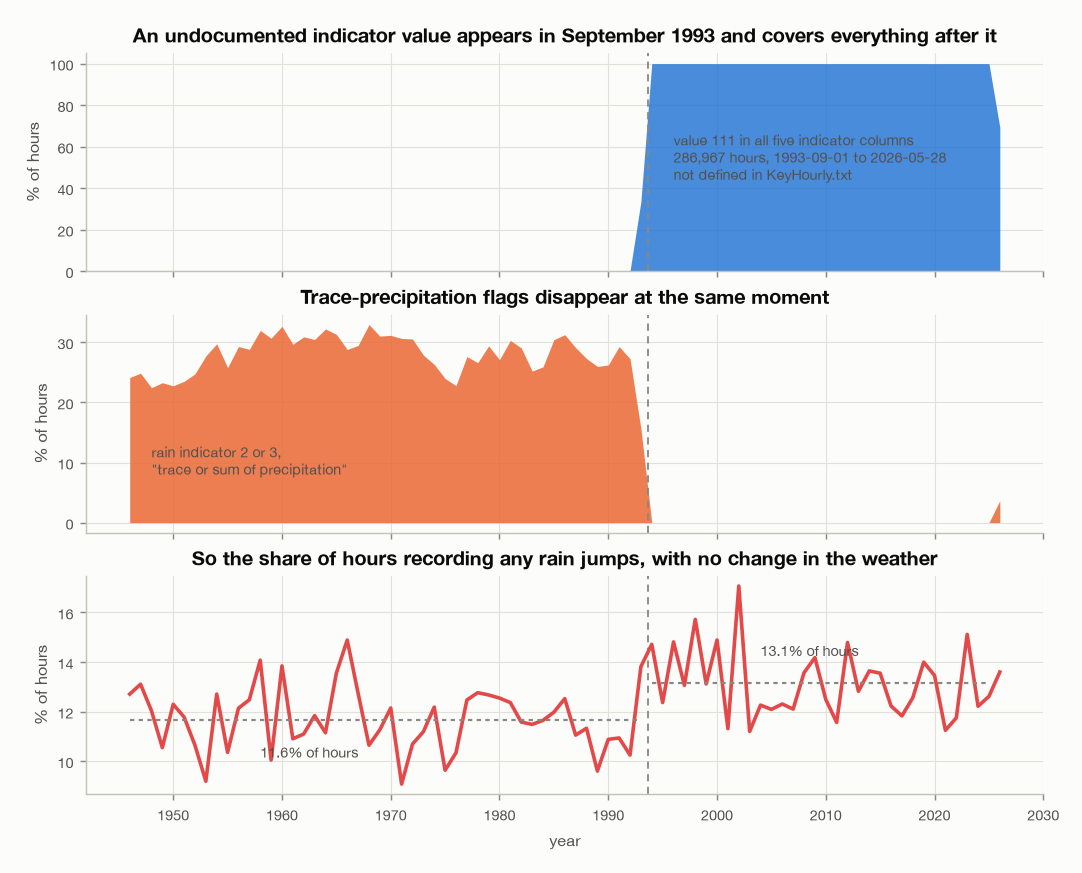
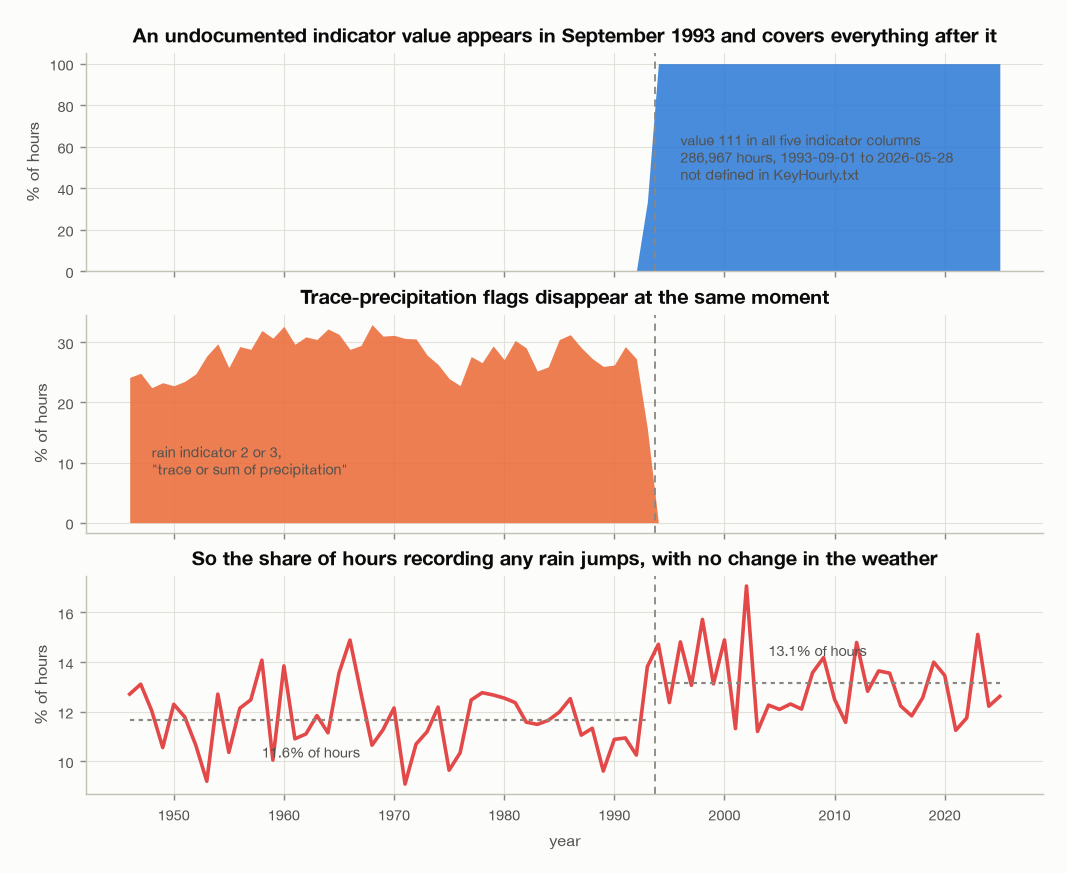
Document 01 published a wind direction the wind never blows from (20260912 22:27 UTC)
Statistical audit of eda_report.py, which generates documents 01 and 03.
Three real errors, each with a correct counterpart in the same file.

The mean wind direction was arithmetic. Averaging 350 and 10 degrees the
way you average temperatures puts the answer at 180, and across 693,896
readings it put the published mean at 205.9 degrees against a circular
mean of 235.6. Within a single month the gap reaches 60 degrees. The
strongest evidence it was wrong is two paragraphs below the table itself,
which names the prevailing southwesterly at 230 to 270 degrees - a range
the published figure sat outside and the corrected one sits inside.

table_univariate applied one linear summary to all thirteen variables.
table_climatology, three functions later in the same file, branches on
aggregate == "circular" and calls circular_mean_deg correctly;
table_break_register skips wddir because "a mean direction does not
subtract meaningfully"; table_correlation excludes it as meaningless. The
file knew. One function did not ask. Its standard deviation and skew are
now empty rather than filled with numbers that mean nothing: both measure
distance from a mean along a line, and a compass has no line.

The indicator-era figure plotted an unbounded index, so a 212-day 2026
became its last point. That year reverts to the documented codes partway
through, so the blue fill fell to 69% directly beneath a title reading
"covers everything after it", and the trace-flag fill ticked back up
[…]

diff --git a/EDA/scripts/eda_report.py b/EDA/scripts/eda_report.py
@@ -172,10 +172,20 @@ def table_continuity(raw: pd.DataFrame) -> pd.DataFrame:
 
 
 def table_univariate(clean_df: pd.DataFrame) -> pd.DataFrame:
-    """Distribution summary per variable, sentinels already removed."""
+    """Distribution summary per variable, sentinels already removed.
+
+    Wind direction is circular, so its mean is the circular one and its
+    standard deviation and skew are left empty: both describe distance from a
+    mean along a line, and there is no line. The arithmetic mean of this column
+    reads 205.9 degrees against a circular mean of 235.6, and the gap reaches
+    60 degrees within a single month, so it is not a rounding question.
+    """
+    from eda_common import circular_mean_deg
+
     rows = []
     for v in VARIABLES:
         s = clean_df[v.key].dropna()
+        circular = v.aggregate == "circular"
         rows.append({
             "variable": v.key,
             "unit": v.unit,
@@ -184,12 +194,13 @@ def table_univariate(clean_df: pd.DataFrame) -> pd.DataFrame:
             "p5": s.quantile(0.05),
             "p25": s.quantile(0.25),
             "median": s.median(),
-            "mean": s.mean(),
+            "mean": (circular_mean_deg(s.to_numpy(dtype=float))
+                     if circular else s.mean()),
             "p75": s.quantile(0.75),
             "p95": s.quantile(0.95),
             "max": s.max(),
-            "std": s.std(),
-            "skew": s.skew(),
+            "std": np.nan if circular else s.std(),
+            "skew": np.nan if circular else s.skew(),
         })
     return pd.DataFrame(rows).set_index("variable")
 
@@ -534,8 +545,19 @@ def table_climatology(clean_df: pd.DataFrame) -> tuple[pd.DataFrame, pd.DataFram
             if v.aggregate == "circular":
                 cols[v.key] = g.apply(lambda s: circular_mean_deg(s.to_numpy(dtype=float)))
             elif v.aggregate == "sum" and totals:
-                # total per calendar month per year, then averaged over years
+                # total per calendar month per year, then averaged over years.
+                # The completeness gate is the point: the record ends on
+                # 2026-08-01 00:00, so August 2026 holds one hour of 744 and was
+                # being averaged in as a whole dry, sunless August alongside
+                # eighty real ones. Same idea as daily()'s min_hours and
+                # annual()'s min_days, which this path never had.
                 per_month = frame.groupby(["year", by])[v.key].sum(min_count=1)
+                hours = frame.groupby(["year", by])[v.key].count()
+                expected = pd.Series(
+                    [pd.Period(year=y, month=m, freq="M").days_in_month * 24
+                     for y, m in per_month.index],
+                    index=per_month.index)
+                per_month = per_month.loc[hours >= 0.9 * expected]
                 cols[v.key] = per_month.groupby(level=1).mean()
             else:
                 cols[v.key] = g.mean()
@@ -639,6 +661,11 @@ def fig_indicator_era(era: pd.DataFrame, blocks: pd.DataFrame) -> None:
         ax.axvline(break_year, color=INK_MUTED, linewidth=1.0, linestyle=(0, (4, 3)))
 
     ax = axes[0]
+    # Complete years only, as fig_rain_total_unaffected does below. Plotting the
+    # raw index put a 212-day 2026 on the end, and that year reverts to the
+    # documented codes partway through, so the final point fell to 69% directly
+    # under a title saying the undocumented value covers everything after 1993.
+    era = era.loc[:LAST_COMPLETE_YEAR]
     ax.fill_between(era.index, era["undocumented 111 %"], color=SERIES[0], alpha=0.85,
                     linewidth=0)
     ax.set_ylabel("% of hours")
@@ -801,7 +828,12 @@ def fig_zero_sun(raw: pd.DataFrame, spells: pd.DataFrame) -> None:
     for ax, series, ylabel, title in panels:
         frame = series.to_frame("v")
         frame["year"] = frame.index.year
-        frame["doy"] = frame.index.dayofyear
+        # Leap-adjusted: .dayofyear puts 10 March at 70 in a leap year and 69
+        # otherwise, so pooling "all years" by it mixes adjacent calendar days
+        # for every day past February. 29 February folds onto 28, as elsewhere.
+        doy = np.asarray(frame.index.dayofyear)
+        leap = np.asarray(frame.index.is_leap_year)
+        frame["doy"] = np.where(leap & (doy >= 60), doy - 1, doy)
         window = frame[(frame["doy"] >= lo) & (frame["doy"] <= hi)]
         stats_by_doy = window.groupby("doy")["v"].agg(
             p05=lambda s: s.quantile(0.05),

diff --git a/EDA/01-data-review.md b/EDA/01-data-review.md
@@ -375,11 +375,20 @@ Sentinels removed. Hourly values, whole record.
 | `rhum` | % | 706,368 | 19 | 60 | 84 | 82.11 | 98 | 100 | 11.74 | -0.75 |
 | `msl` | hPa | 706,369 | 944.1 | 991.1 | 1014.8 | 1013.55 | 1031.7 | 1048.7 | 12.35 | -0.53 |
 | `wdsp` | knot | 706,369 | 0 | 2 | 9 | 10.11 | 20 | 46 | 5.67 | 0.70 |
-| `wddir` | ° | 693,896 | 10 | 50 | 230 | 205.9 | 320 | 360 | 84.50 | -0.51 |
+| `wddir` | ° | 693,896 | 10 | 50 | 230 | 235.6 | 320 | 360 | — | — |
 | `sun` | h | 706,369 | 0.0 | 0.0 | 0.0 | 0.168 | 1.0 | 1.0 | 0.33 | 1.75 |
 | `vis` | m | 706,114 | 5 | 4,000 | 25,000 | 25,688 | 50,000 | 75,000 | 15,177 | 0.64 |
 | `clht` | 100s ft | 518,928 | 0 | 5 | 35 | 56.87 | 200 | 440 | 60.89 | 1.73 |
 | `clamt` | okta | 706,344 | 0 | 1 | 7 | 5.58 | 8 | 8 | 2.54 | -0.90 |
+
+**`wddir` is the one row that is not a linear summary.** Its mean is the
+circular one, and its standard deviation and skew are left empty rather than
+filled with numbers that do not mean anything: both measure distance from a
+mean along a line, and a compass has no line. Until 20260912 this row carried
+the arithmetic mean, **205.9°**, which is not a direction the wind blows from
+here - it sat outside the 230 to 270 degree prevailing range named two
+paragraphs below, because averaging either side of north drags the answer
+toward south. The circular mean is **235.6°**, inside it.
 
 ![Hourly distributions](figures/01-distributions.png)
 
@@ -421,7 +430,7 @@ thermal lag.
 |---|---|---|---|---|
 | Month | December, 75.8 mm | April, 50.4 mm | May, 196.8 h | December, 54.1 h |
 
-Over the whole record the climatology totals 762 mm of rain and 1,466 hours of
+Over the whole record the climatology totals 763 mm of rain and 1,468 hours of
 sunshine a year.
 
 ### 7.1 Checking the file against Met Éireann's published normals
